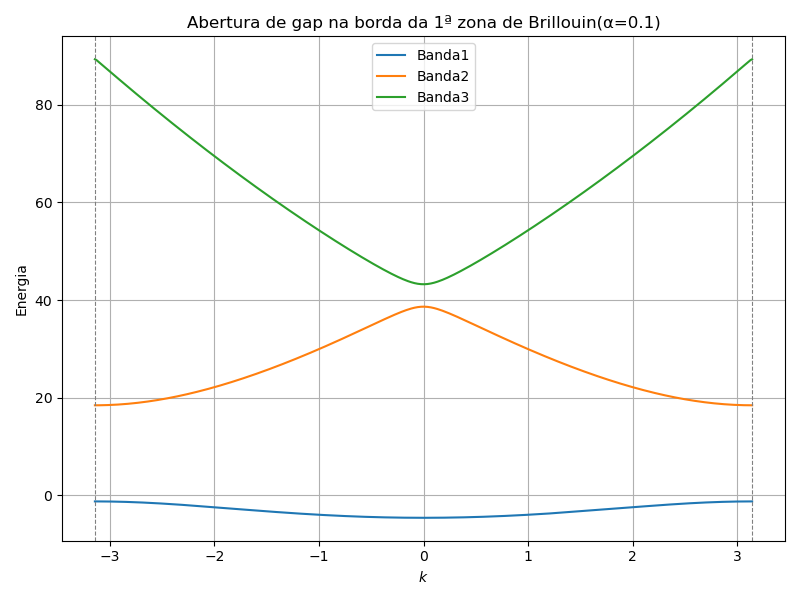
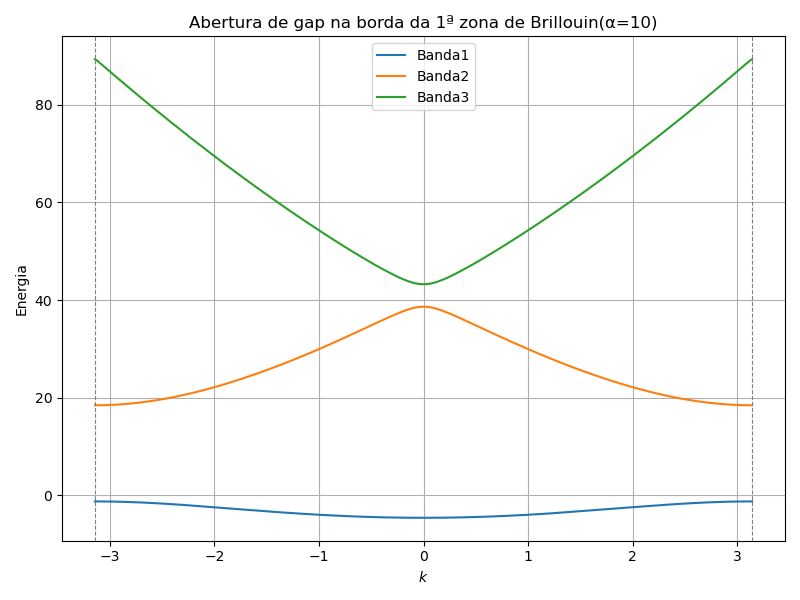
Alterações

Changed region(s): [[0.2188, 0.03, 0.8438, 0.06]]

diff --git a/Física Computacional-Atividade 5/script/exercício_1.py b/Física Computacional-Atividade 5/script/exercício_1.py
@@ -25,7 +25,7 @@ for i in range(3): #Mostra as 3 bandas mais baixas
 
 plt.axvline(-np.pi, color='gray',linestyle='--', linewidth=0.8)
 plt.axvline(np.pi, color='gray', linestyle='--',linewidth=0.8)
-plt.title("Abertura de gap na borda da 1ª zona de Brillouin(α=0.1)")
+plt.title("Abertura de gap na borda da 1ª zona de Brillouin(α=10)")
 plt.xlabel("$k$")
 plt.ylabel("Energia")
 plt.legend()
